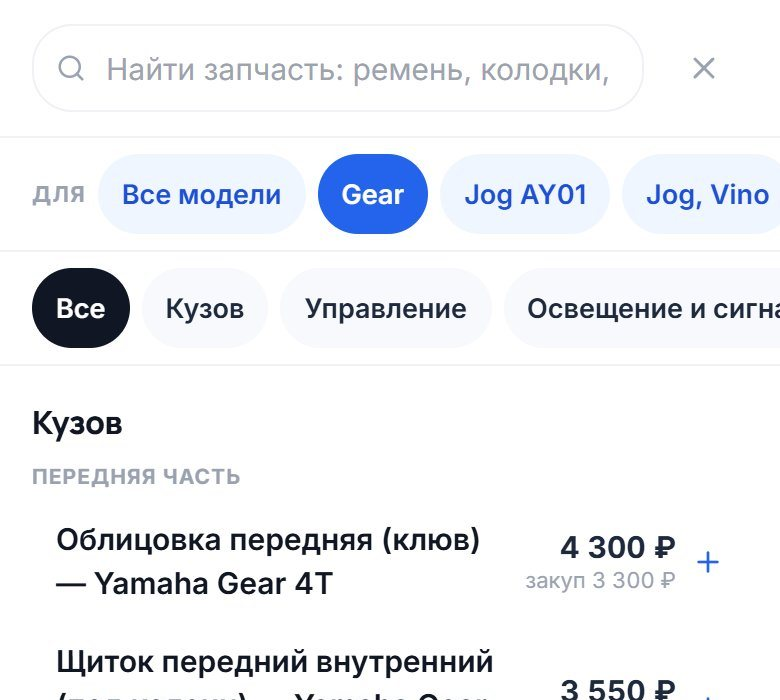
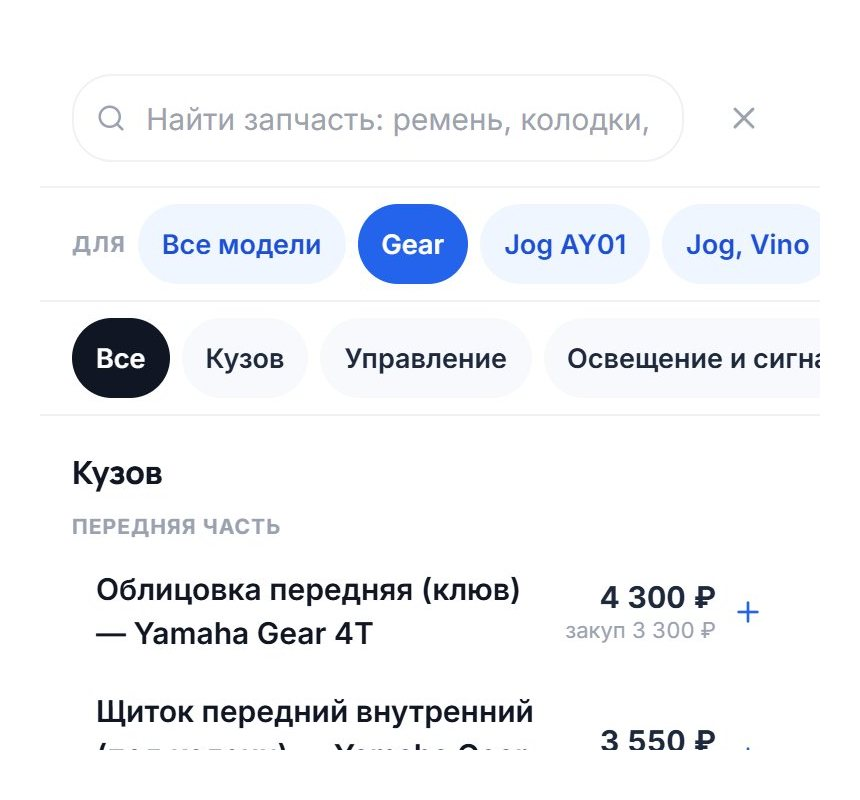
fix(2.0.2): слайд «Прайс запчастей» на узком телефоне — поля вокруг кадра

diff --git a/scripts/shots/release-frames-2.0.2.py b/scripts/shots/release-frames-2.0.2.py
@@ -53,8 +53,11 @@ def stacked(name: str, parts: list[tuple[int, int, int, int]]) -> Image.Image:
 
 
 def phone_crop(name: str, box: tuple[int, int, int, int], out: str) -> None:
-    """Кусок кадра телефона — когда нужное место не в начале экрана."""
-    im = Image.open(SRC / f"{name}.jpg").convert("RGB").crop(box)
+    """Кусок кадра телефона — когда нужное место не в начале экрана. Белые
+    поля: слайд телефона почти квадратный и режет края, а сверху — метка «Было»."""
+    part = Image.open(SRC / f"{name}.jpg").convert("RGB").crop(box)
+    im = Image.new("RGB", (part.width + 80, part.height + 100), (255, 255, 255))
+    im.paste(part, (40, 50))
     im.save(OUT / f"{out}.jpg", quality=84, optimize=True)
     print(out, im.size)
 
